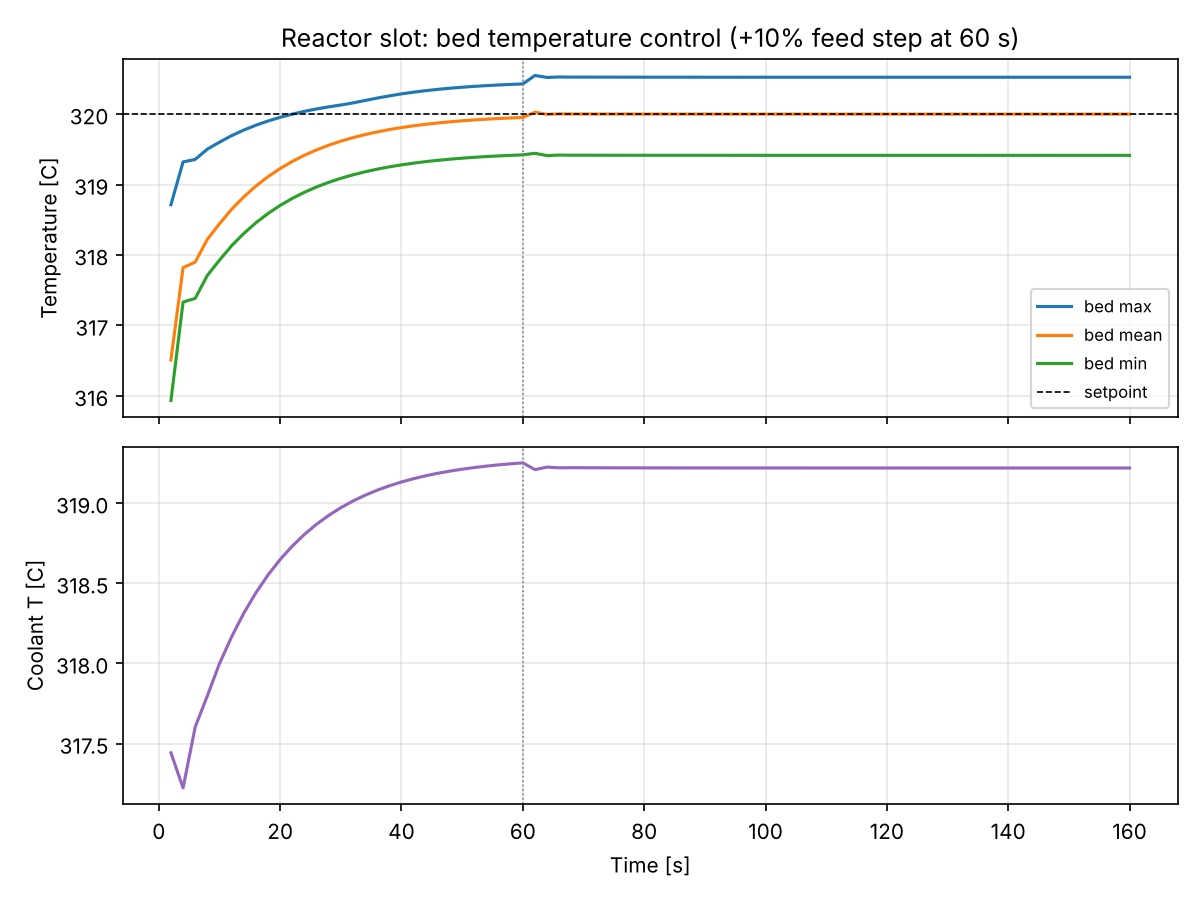
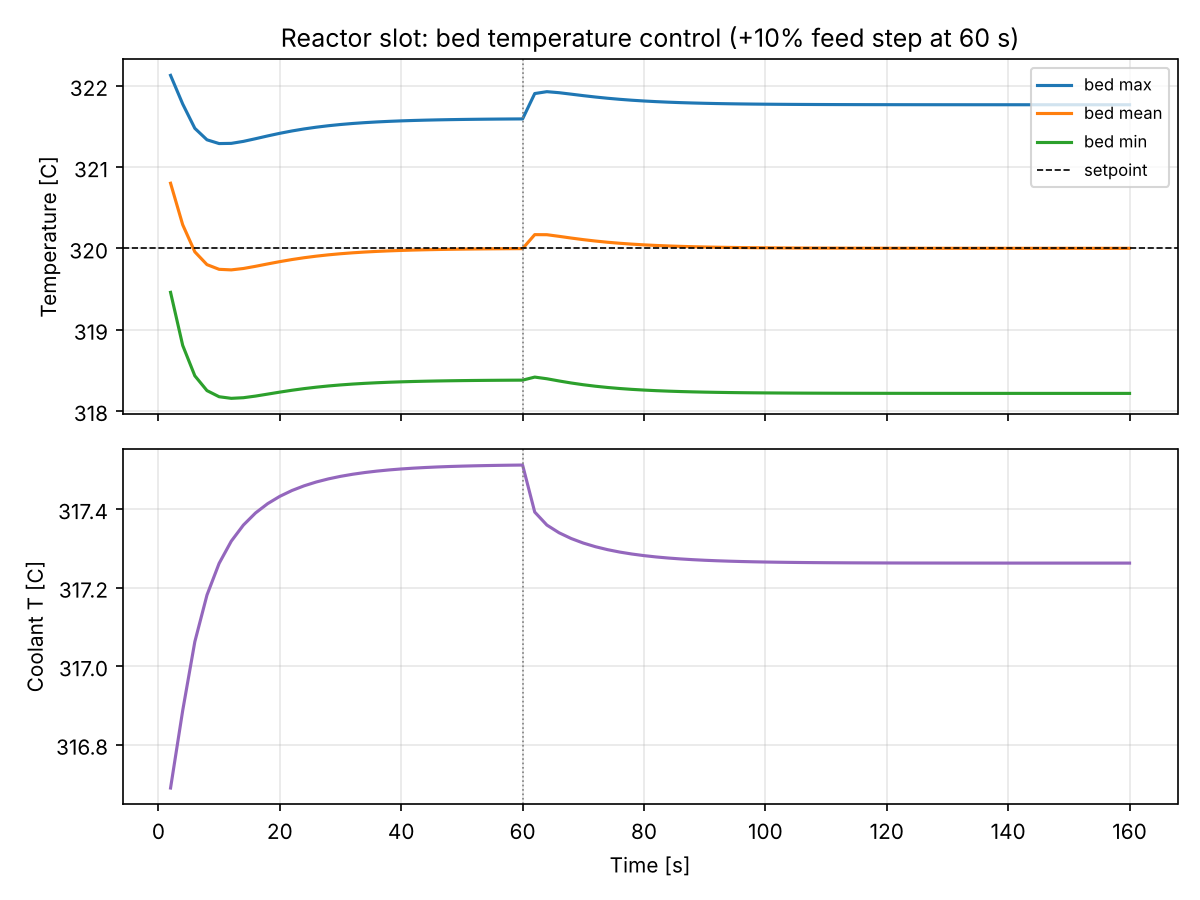
Adopt feasibility-tested design: Dowtherm A coolant, 1.5 mm plates, kinetic heat profile
- CFD defaults: boiling Dowtherm A (h 1,500 W/m2K), 1.5 mm SS316 plate, calibrated kinetic heat profile
- reference results regenerated (bed dT 3.6 K, energy balance 0.00 %)
- READMEs updated for Spec 2 >= 35 % and the coolant choice

Claude-Session: https://claude.ai/code/session_01D4KoAeWbDjpehsBy4FrNmG

diff --git a/cfd/README.md b/cfd/README.md
@@ -3,9 +3,9 @@
 This folder models **one catalyst slot** of the micro-structured fixed-bed reactor in OpenFOAM:
 
 ```
- coolant (boiling water, h = 5000 W/m²K, temperature Ta set by the PID controller)
+ coolant (boiling Dowtherm A ≈ 3.4 bar, h = 1500 W/m²K, temperature Ta set by the PID controller)
  ┌──────────────────────────────────────────────────────────┐
- │ steel plate, 1 mm            (region "solid")             │
+ │ steel plate, 1.5 mm          (region "solid")             │
  ├──────────────────────────────────────────────────────────┤ ← conjugate heat transfer
  │ porous catalyst bed, half of 4 mm   (region "fluid")      │
  │ H2/CO2 = 3 gas, 320 °C, 3.0 MPa → reaction heat in 60 zones│ → outlet
@@ -15,7 +15,7 @@ This folder models **one catalyst slot** of the micro-structured fixed-bed react
 
 * **Solver:** `chtMultiRegionFoam` (conjugate heat transfer, gas + steel).
 * **Porous bed:** Darcy–Forchheimer resistance from the Ergun equation (particle size, porosity).
-* **Reaction heat:** the axial profile comes from the 1-D model (`../reactor_model`). Before every
+* **Reaction heat:** the axial profile comes from the calibrated RWGS + Fischer–Tropsch kinetics (`../reactor_model/heat_profile_kinetic.json`). Before every
   2-second chunk, each of the 60 bed zones (15 axial × 4 across the bed) gets the **exact Arrhenius**
   heat release for its current temperature. This is how a hot spot can feed on itself.
 * **Control:** `run_pid.py` is a Python co-simulation. It runs OpenFOAM in 2 s chunks, reads the bed
@@ -77,7 +77,8 @@ To change anything (bed thickness, coolant h, conductivity, setpoint, PID gains,
 * The heat-release profile comes from a 1-D model with first-order lumped kinetics and fixed CO selectivity (15 %).
 * The bed's heat capacity is the **gas only**. The real bed (particles) heats up about 20× more slowly, so
   transients here are faster than reality. Steady-state temperatures are unaffected.
-* The coolant is a convective boundary (boiling water); the coolant channel itself is not meshed.
+* The coolant is a convective boundary (boiling Dowtherm A, h = 1,500 W/m²K); the coolant channel itself is not meshed.
+  Boiling water was rejected: it needs ≈ 111 bar at 319 °C.
 * The effective bed conductivity (0.8 W/m·K) is an assumption; see the sensitivity task above.
 * The Arrhenius update is explicit, once per chunk (2 s). Reduce `chunk_s` if temperatures oscillate.
 * The feed step scales the heat release 1:1 with flow, a conservative upper bound.

diff --git a/reactor_model/README.md b/reactor_model/README.md
@@ -27,4 +27,7 @@ python3 plug_flow_model.py
 1. Replace the calibrated first-order rate with **literature Fe–Zn–K kinetics** (RWGS + FT with olefin
    selectivity) and validate against at least 3 published datasets.
 2. Use the **same kinetics** in Aspen Plus (RPlug) and check that the Python and Aspen conversions agree.
-3. Add the selectivity outputs (C₂–C₄ olefins ≥ 40 %, Spec 2) once the kinetics are in.
+3. Add the selectivity outputs (C₂–C₄ olefins ≥ 35 %, Spec 2) once the kinetics are in.
+
+The calibrated RWGS + Fischer–Tropsch kinetics from `feasibility/kinetics.py` give the default CFD heat profile
+(`heat_profile_kinetic.json`). `plug_flow_model.py` (first-order placeholder) is kept for hand checks.

diff --git a/feasibility/FEASIBILITY.md b/feasibility/FEASIBILITY.md
@@ -2,6 +2,8 @@
 
 Date: 19 Oct 2026. All scripts in this folder reproduce the numbers below. Tested with OpenFOAM v1912 and Python 3.13.
 
+> **Adopted design (19 Oct 2026):** boiling Dowtherm A coolant (≈ 3.4 bar), 1.5 mm plates, 4 mm bed (≤ 6 mm), Spec 2 = ≥ 35 % C₂–C₄ olefins, ≈ 10 wt % Fe catalyst, Constraint 7 = investor economic basis. These are the CFD defaults; base case ΔT 3.6 K.
+
 ## Verdict
 
 **The project is doable as specified.** No specification is impossible. Three items need a design decision or a
